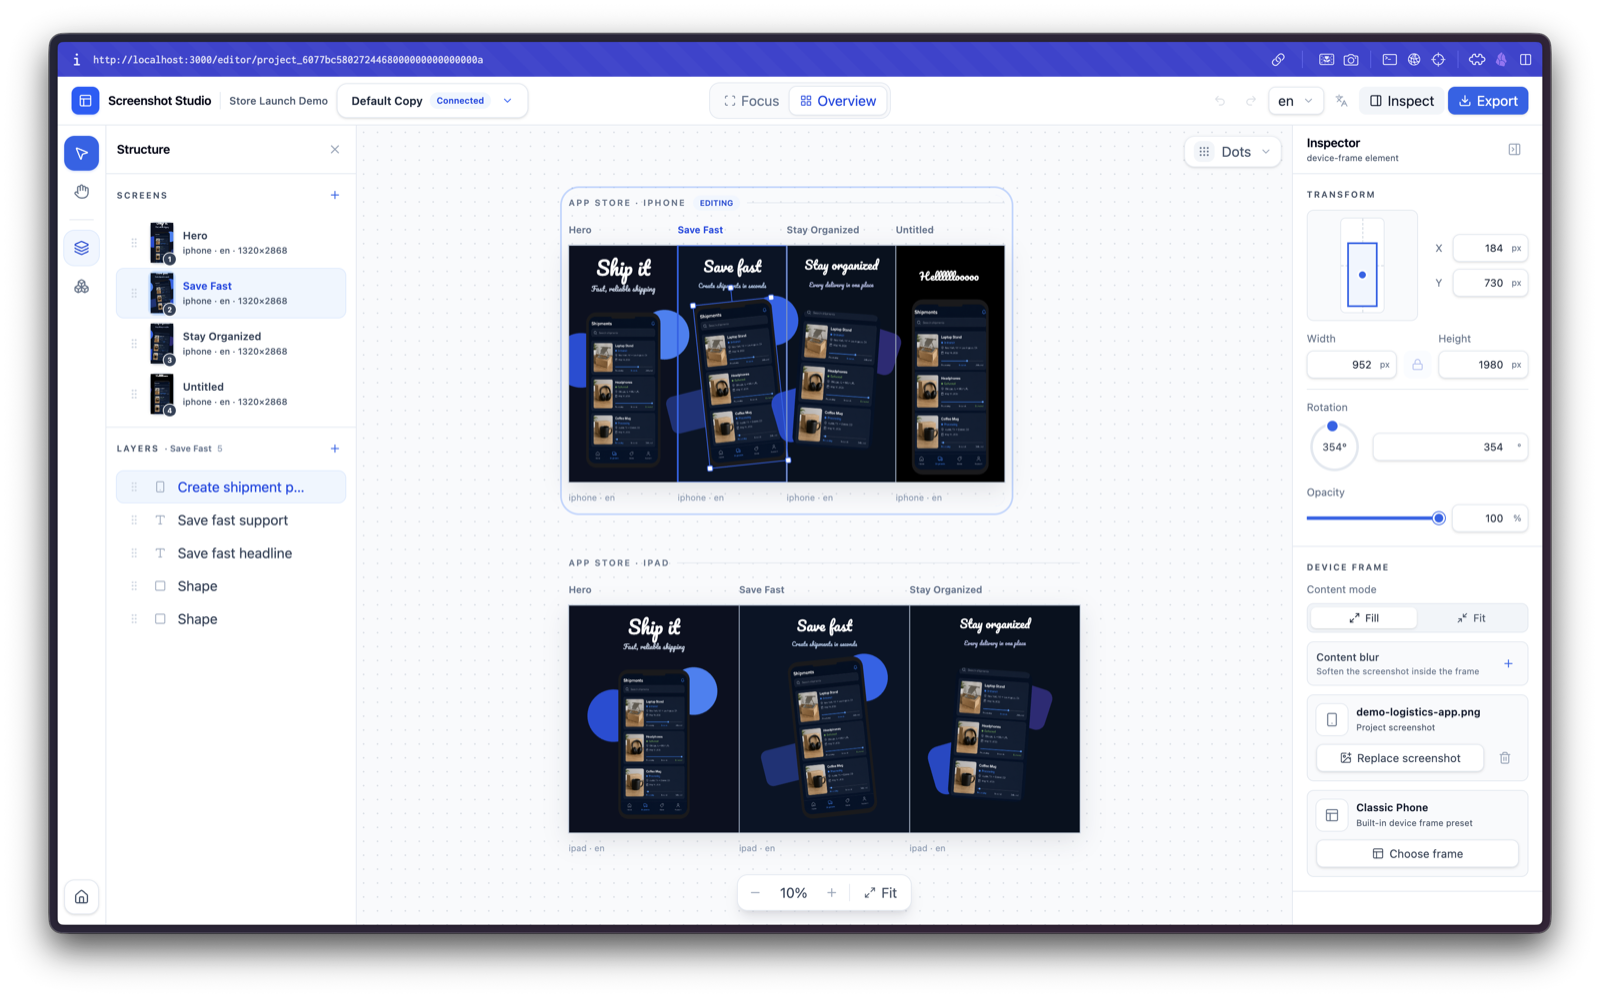
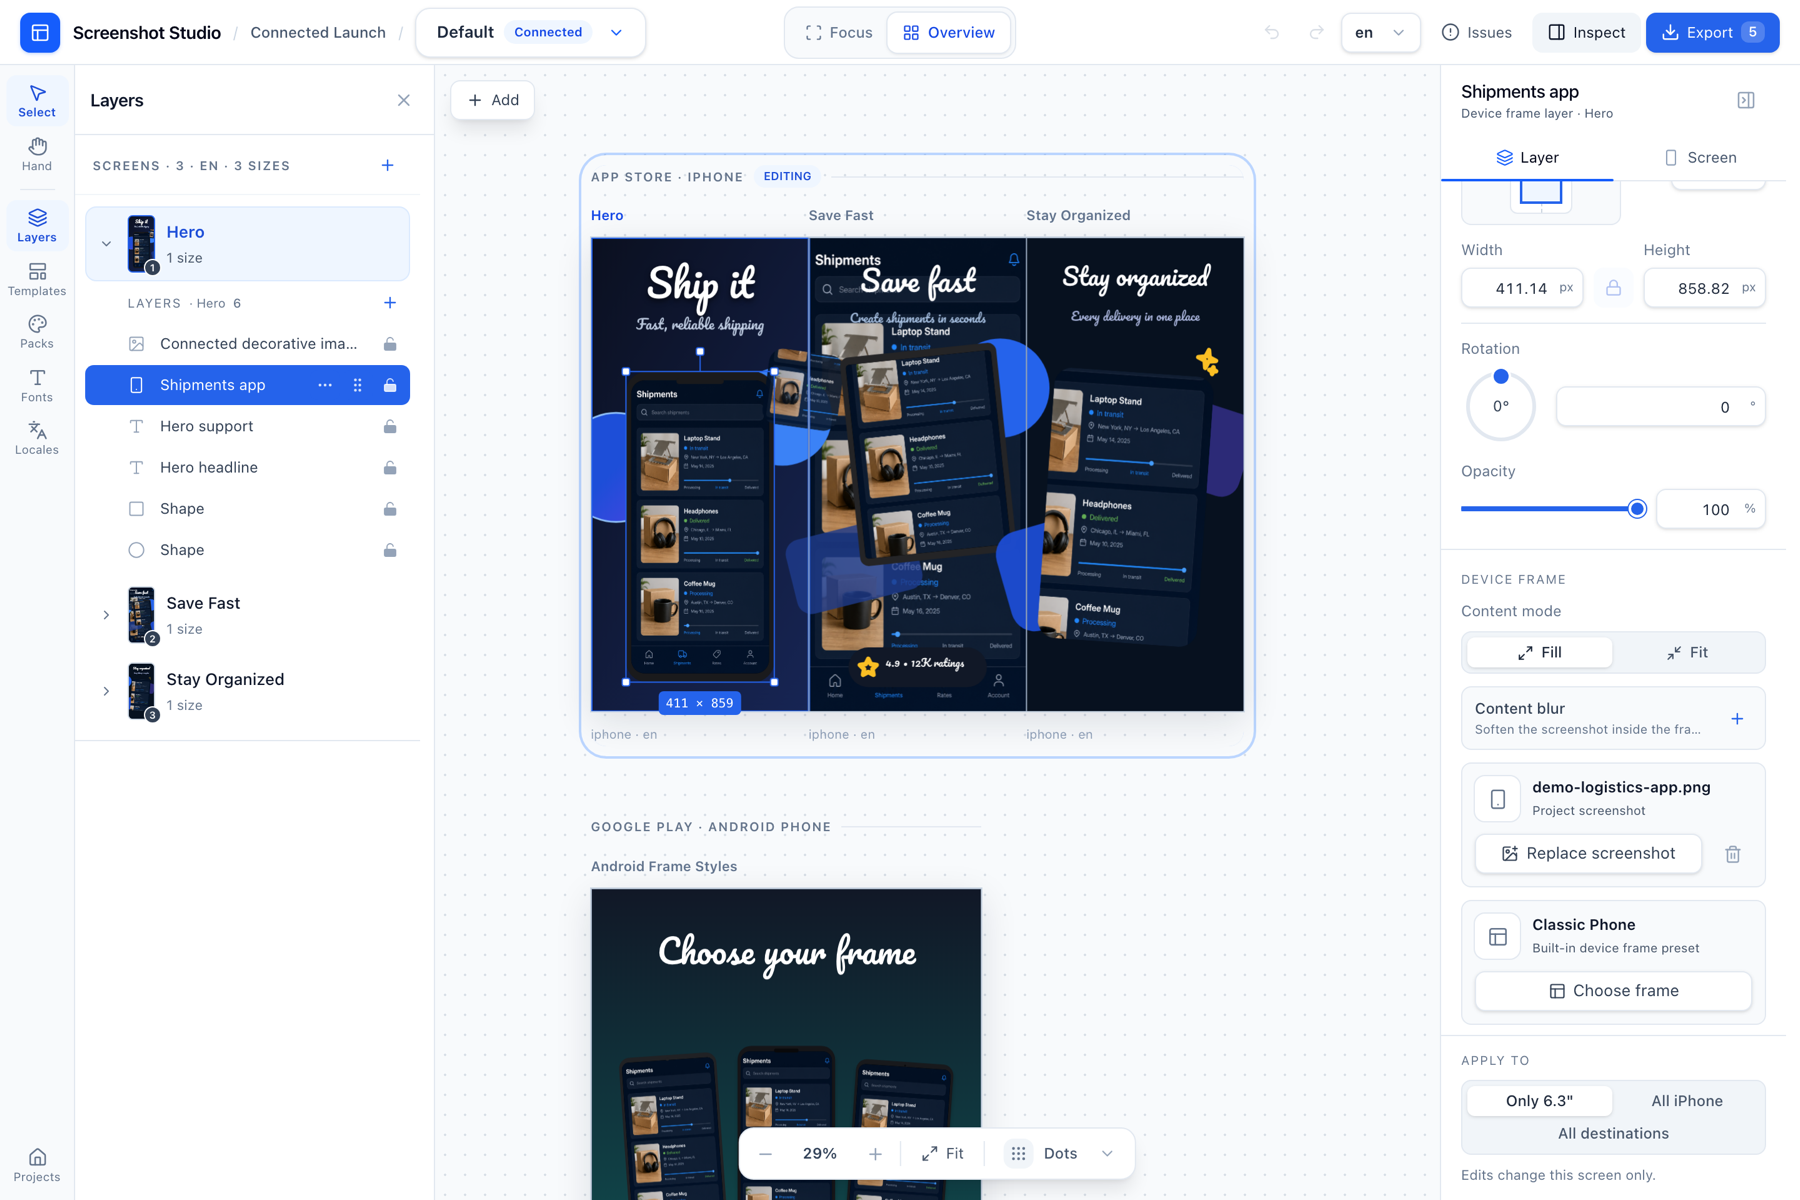
docs: refresh README screenshots and example descriptions

diff --git a/README.md b/README.md
@@ -35,15 +35,17 @@ Screenshot Studio combines both workflows:
   use the same Konva stage through the Chromium render host. Store PNGs are exact-size and opaque.
 - **Visual authoring.** Focus and Overview modes, isolated and connected canvases, multi-selection,
   one-level groups, snapping, guides, zoom, inline text editing, history, and schema-bounded
-  inspectors work across layouts and locales.
+  inspectors work across layouts and locales. **Apply to** picks which exact-size screens an edit
+  writes to, and **Issues** lists pre-export problems with Go to and Fix.
 - **Complete creative surface.** Text, shapes, screenshots, decorative images, trusted vector icons,
   device frames, editable badge groups, solid/gradient/project-image backgrounds, media crop,
   shadows, gradients, and strokes share render/export parity.
 - **Store and locale workflows.** Apple, Android, Windows, and responsive Web output families,
   explicit exact-size variants, synchronized or independent screen slots, complete locale sets, and
-  baked RTL geometry use the same project model.
-- **Reusable local resources.** Built-in starters and Design Packs work alongside project-local
-  fonts, themes, templates, assets, auto-crop, and flat-background removal.
+  baked RTL geometry use the same project model. Export bundles only the checked sizes and locales
+  and previews their file paths.
+- **Reusable local resources.** Built-in starters, Design Packs, and screen packs work alongside
+  project-local fonts, themes, templates, assets, auto-crop, and flat-background removal.
 - **CLI and agent workflows.** The `screenshots` CLI manages layouts, screens, imports, fonts,
   themes, locales, local assets, and exports. Generated project-local guidance and the optional
   [agent skill](skills/screenshot-studio/SKILL.md) operate on the same strict JSON and CLI contract.
@@ -53,8 +55,9 @@ Screenshot Studio combines both workflows:
 
 ## Example project
 
-The Store Launch Demo shows one campaign authored across iPhone and iPad, with synchronized screen
-structure, exact-size output variants, and element-level visual controls.
+The screenshots below use the bundled [`connected-launch`](examples/README.md) example: one
+connected campaign across App Store iPhone, Google Play phone, and Web desktop, with exact-size
+output variants and element-level visual controls.
 
 Start with a guided project or import an existing Folder, project ZIP, or complete JSON document.
 
@@ -70,15 +73,19 @@ the same composition through the shared renderer.
 ![Screenshot Studio connected multi-artboard editor](docs/images/readme/editor-overview.png)
 
 <details>
-<summary><strong>See element and screen controls</strong></summary>
+<summary><strong>See element, screen, and export controls</strong></summary>
 
 Select a device frame to adjust its transform, screenshot content, and frame preset.
 
 ![Screenshot Studio device frame inspector](docs/images/readme/device-frame-inspector.png)
 
-Select a screen to manage synchronized structure, destinations, exact output sizes, and background.
+Select a screen to manage destinations, synchronized structure, exact output sizes, and background.
 
 ![Screenshot Studio screen and output variants](docs/images/readme/screen-variants.png)
+
+Export the checked destinations, sizes, and locales as one store bundle, with a preview of its paths.
+
+<img src="docs/images/readme/export-dialog.png" alt="Screenshot Studio export dialog" width="560">
 
 </details>
 

diff --git a/examples/README.md b/examples/README.md
@@ -2,9 +2,10 @@
 
 These projects are small, editable strict v1 documents and living authoring/export fixtures:
 
-- `connected-launch` — a three-screen English iPhone launch deck in connected mode. Its shapes and
-  decorative image deliberately cross screen boundaries, while trusted icons and an editable
-  rating-badge group demonstrate the current creative primitives.
+- `connected-launch` — an English launch deck in connected mode: three App Store iPhone screens plus
+  Google Play phone and Web desktop frame-style screens. Its shapes and decorative image
+  deliberately cross screen boundaries, while trusted icons and an editable rating-badge group
+  demonstrate the current creative primitives.
 - `rtl-delivery` — two-screen English and Arabic connected locale groups using an embedded Noto
   Sans Arabic font, explicit LTR/RTL text direction, and group/icon overflow across exact crops.
 
